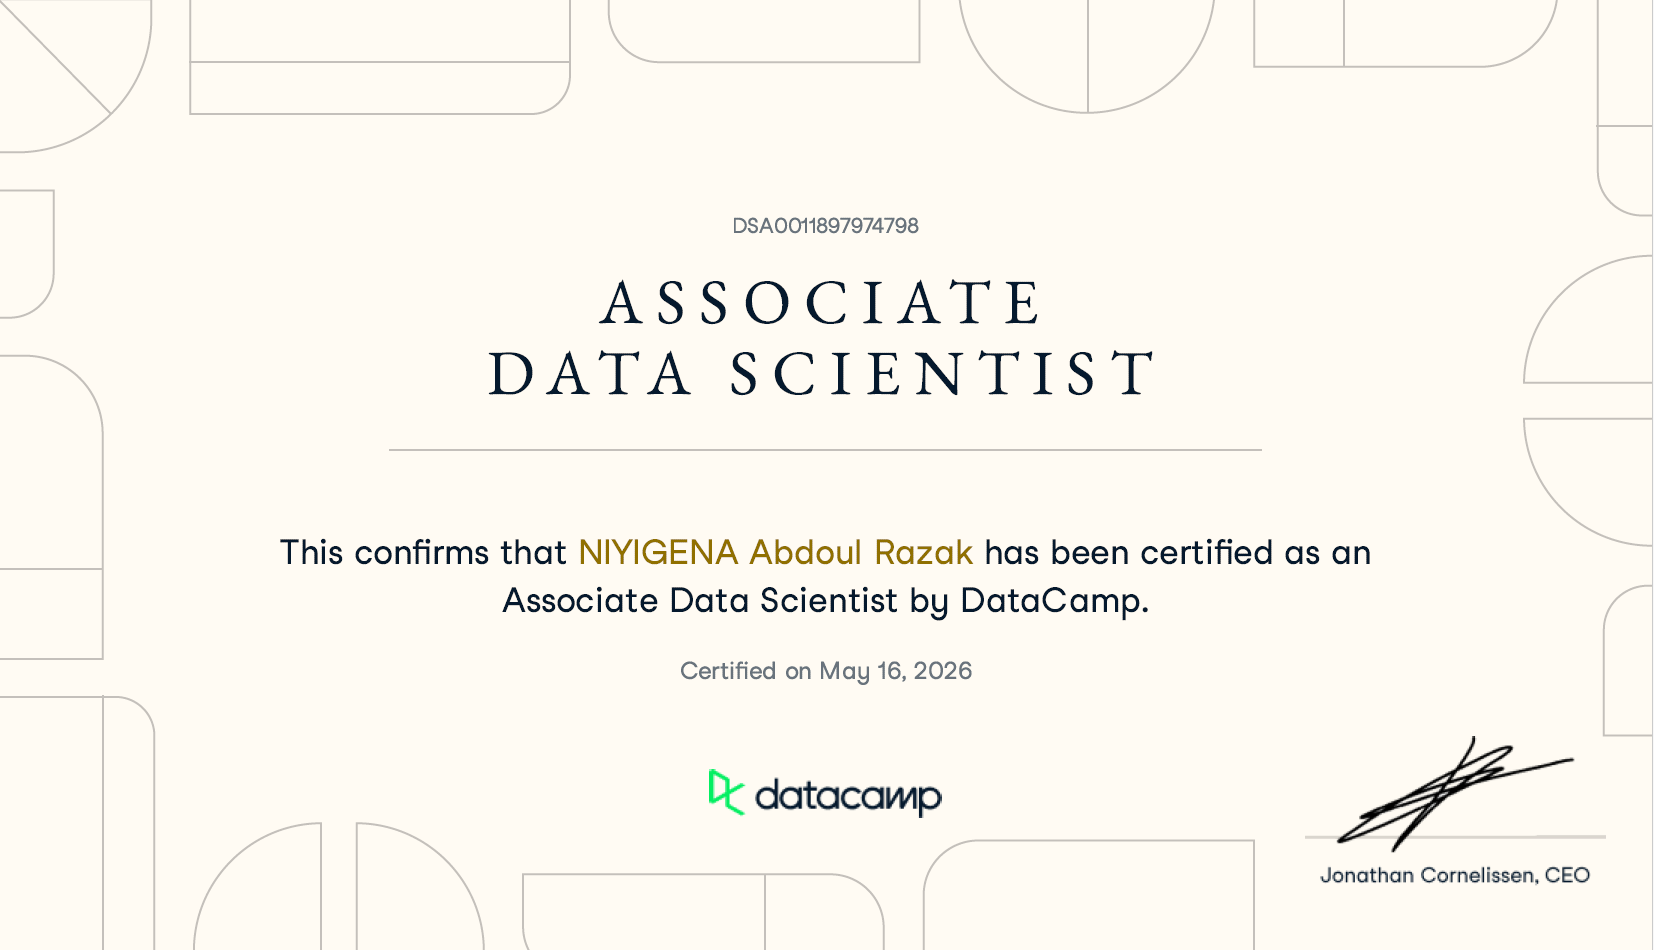
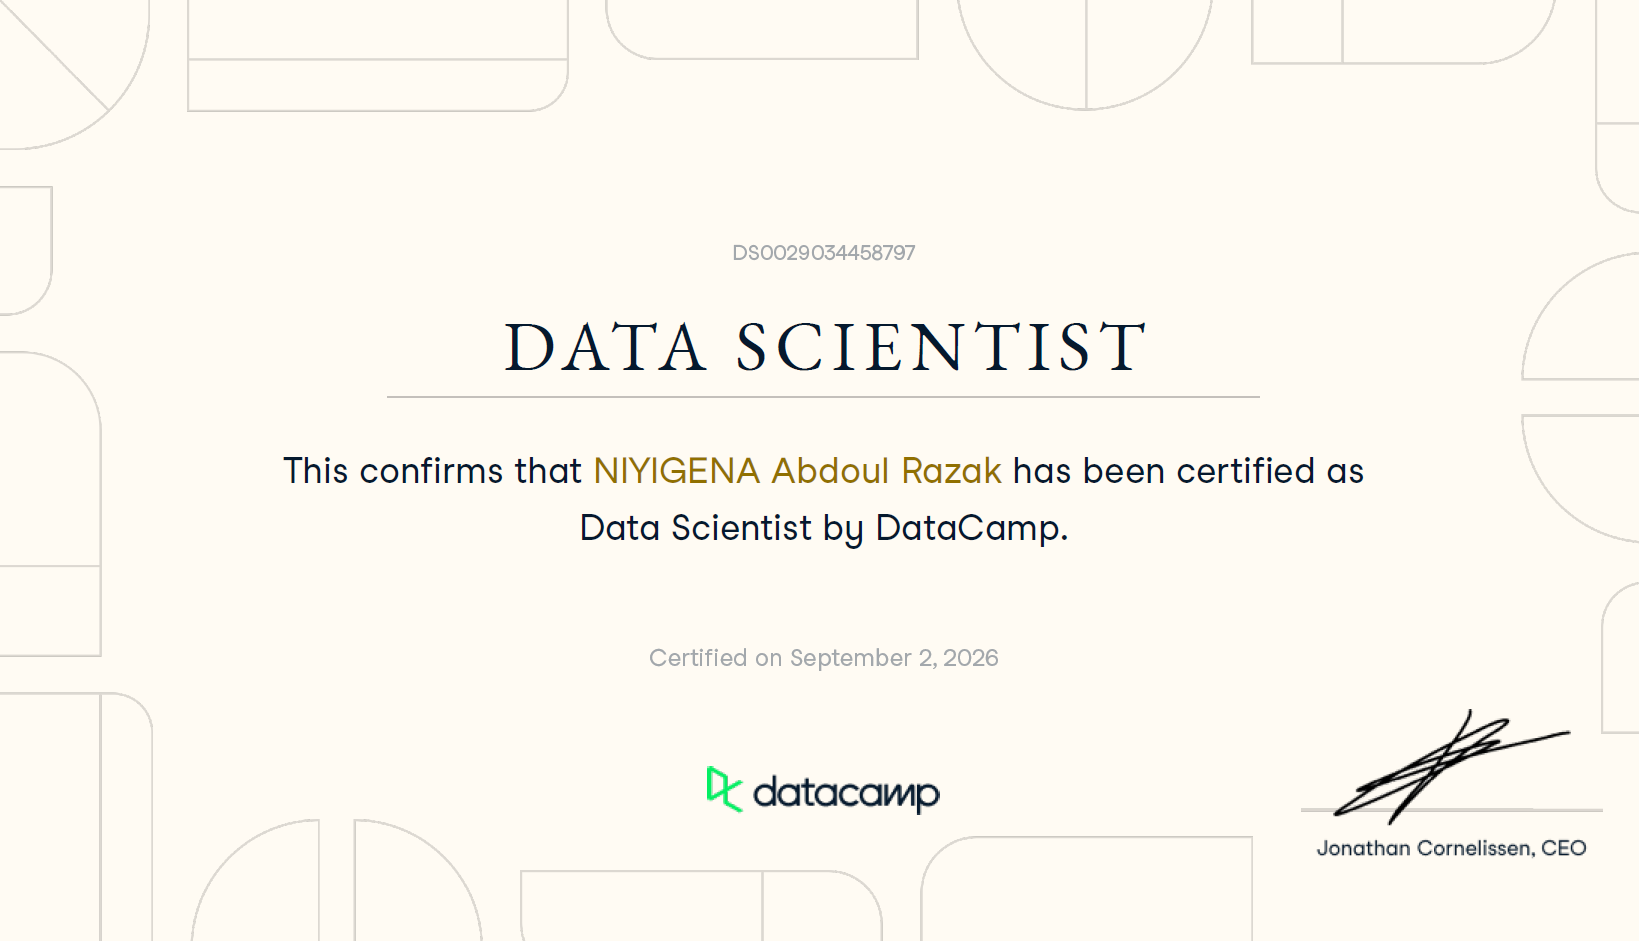
Update certifications with new credentials and updated certificate images

diff --git a/src/components/sections/Certificates.tsx b/src/components/sections/Certificates.tsx
@@ -4,18 +4,18 @@ import { SectionHeader } from "./About";
 
 const certificates = [
   {
-    title: "Certified Associate Data Scientist",
+    title: "Certified Data Scientist Professional",
     issuer: "DataCamp",
     year: "2026",
     image: "/images/Certificate-1.png",
-    url: "https://www.datacamp.com/certificate/DSA0011897974798",
+    url: "https://www.datacamp.com/certificate/DS0029034458797",
   },
   {
-    title: "Mathematics and Statistics for Data Science",
-    issuer: "Simplilearn",
+    title: "Microsoft Certified: Azure Developer Associate(AZ-204)",
+    issuer: "DataCamp",
     year: "2026",
     image: "/images/Certificate-2.png",
-    url: "https://certificates.simplicdn.net/share/10661277_10992109_1787917135259.pdf",
+    url: "https://www.datacamp.com/statement-of-accomplishment/track/e3d6216ce26e0c1e648e8ec1974a01a5fedd71d2?raw=1",
   },
   {
     title: "Certified Associate Data Analyst",
@@ -25,25 +25,25 @@ const certificates = [
     url: "https://www.datacamp.com/certificate/DAA0012772204704",
   },
   {
-    title: "Microsoft Certified: Azure Developer Associate(AZ-204)",
+    title: "AWS Cloud Practitioner (CLF-C02)",
     issuer: "DataCamp",
     year: "2026",
     image: "/images/Certificate-4.png",
-    url: "https://www.datacamp.com/statement-of-accomplishment/track/e3d6216ce26e0c1e648e8ec1974a01a5fedd71d2?raw=1",
+    url: "https://www.datacamp.com/statement-of-accomplishment/track/79f02b8bc0ac602db7e607193eea4826ee669f33?raw=1",
+  },
+  {
+    title: "Mathematics and Statistics for Data Science",
+    issuer: "Simplilearn",
+    year: "2026",
+    image: "/images/Certificate-5.png",
+    url: "https://certificates.simplicdn.net/share/10661277_10992109_1787917135259.pdf",
   },
   {
     title: "Machine Learning with Tree-Based Models",
     issuer: "DataCamp",
     year: "2026",
-    image: "/images/Certificate-5.png",
-    url: "https://www.datacamp.com/statement-of-accomplishment/course/e33988b9edc34dc8a51580c01ef952b742ce7389?raw=1",
-  },
-  {
-    title: "AWS Cloud Practitioner (CLF-C02)",
-    issuer: "DataCamp",
-    year: "2026",
     image: "/images/Certificate-6.png",
-    url: "https://www.datacamp.com/statement-of-accomplishment/track/79f02b8bc0ac602db7e607193eea4826ee669f33?raw=1",
+    url: "https://www.datacamp.com/statement-of-accomplishment/course/e33988b9edc34dc8a51580c01ef952b742ce7389?raw=1",
   },
 ];
 
